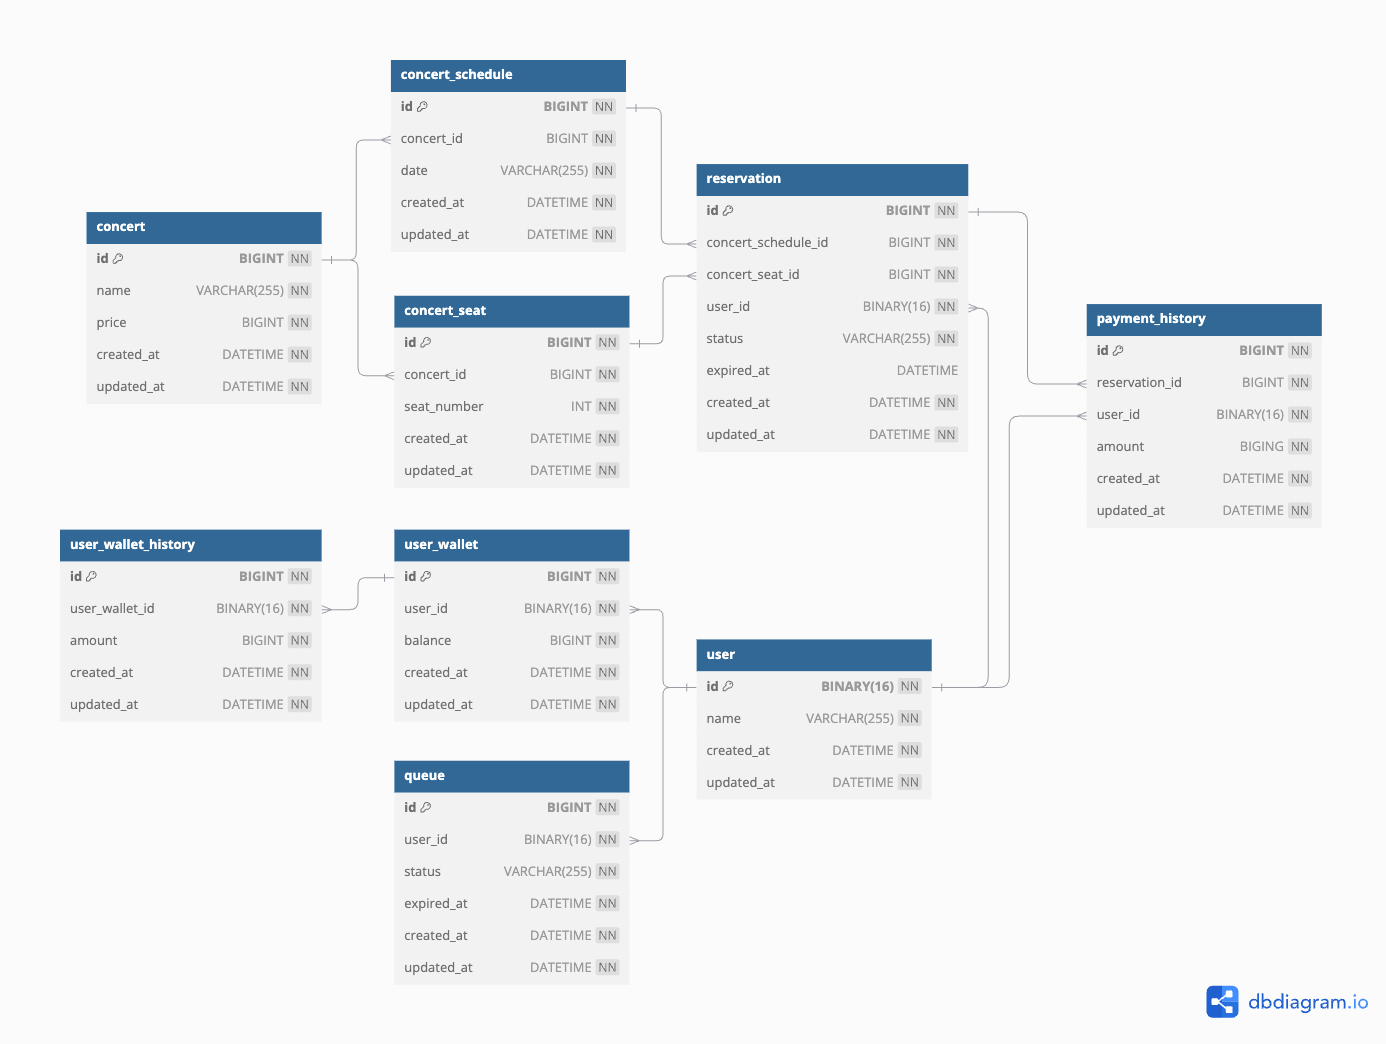
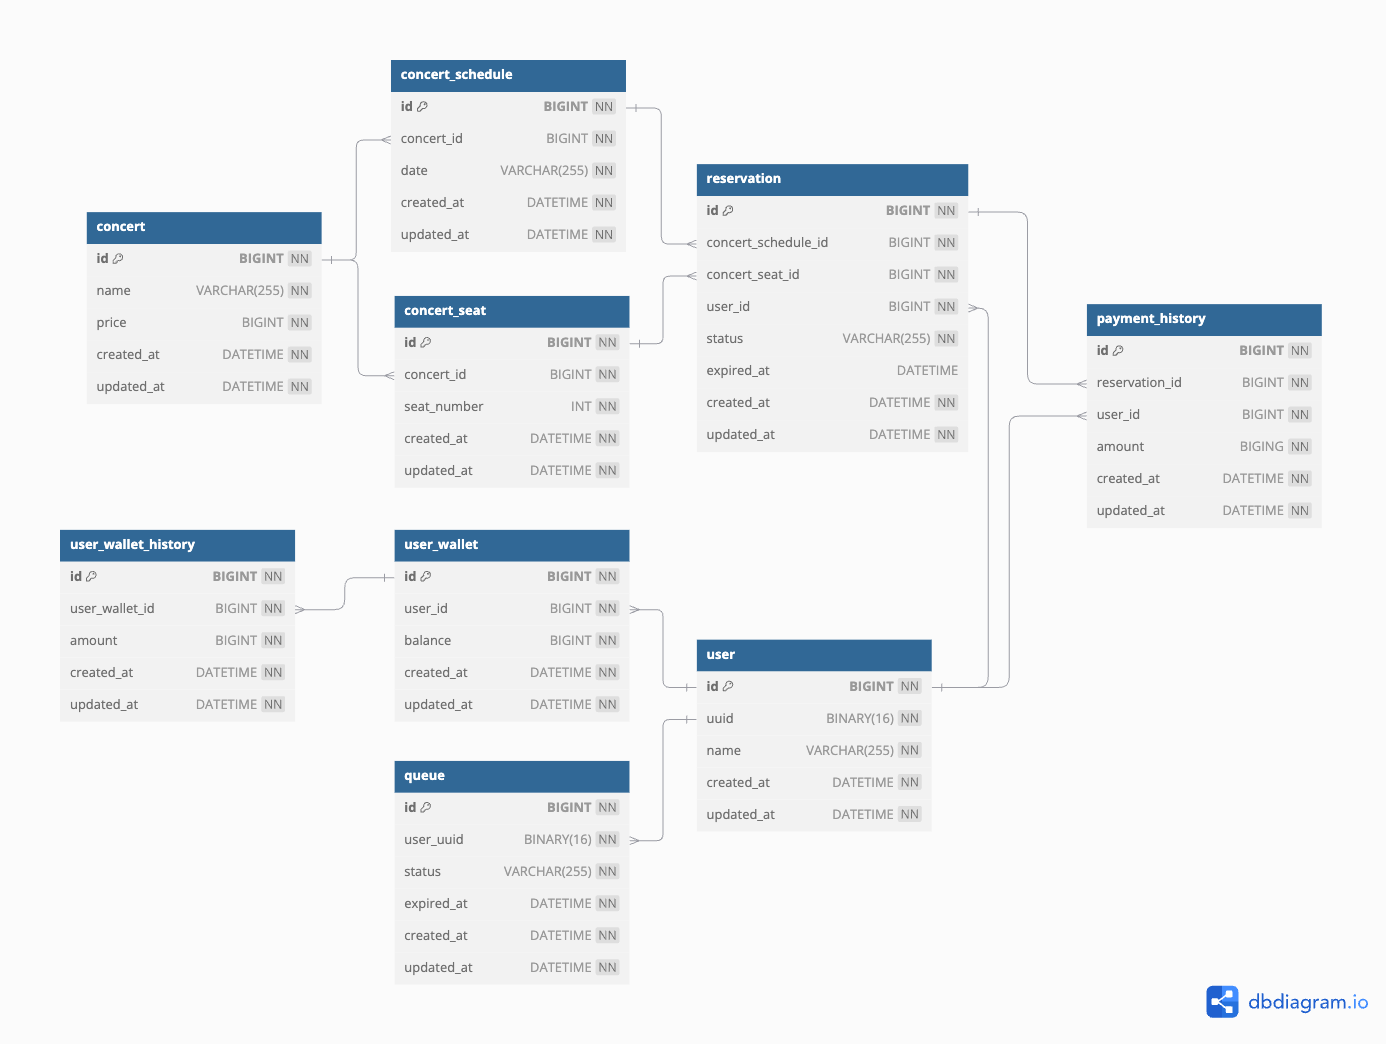
#5 ERD 수정 > UUID / PK 분리

diff --git a/docs/erd.md b/docs/erd.md
@@ -41,7 +41,7 @@ Table reservation as "예약" {
   id BIGINT [pk, not null] // 콘서트 예약 ID
   concert_schedule_id BIGINT [not null, ref: > concert_schedule.id] // 콘서트 일정 ID
   concert_seat_id BIGINT [not null, ref: > concert_seat.id] // 콘서트 좌석 ID
-  user_id BINARY(16) [not null, ref: > user.id] // 유저 ID
+  user_id BIGINT [not null, ref: > user.id] // 유저 ID
   status VARCHAR(255) [not null] // 예약 상태
   expired_at DATETIME [null] // 임시 배정 만료 시각
   created_at DATETIME [not null] // 생성 시각
@@ -49,15 +49,20 @@ Table reservation as "예약" {
 }
 
 Table user as "유저" {
-  id BINARY(16) [pk, not null] // 유저 ID
+  id BIGINT [pk, not null] // 유저 ID
+  uuid BINARY(16) [not null] // 유저 UUID
   name VARCHAR(255) [not null] // 유저 이름
   created_at DATETIME [not null] // 생성 시각
   updated_at DATETIME [not null] // 수정 시각
+
+  indexes {
+    (uuid) [unique] // UNIQUE 제약 조건
+  }
 }
 
 Table user_wallet as "유저 지갑" {
   id BIGINT [pk, not null] // 유저 지갑 ID
-  user_id BINARY(16) [not null, ref: > user.id] // 유저 ID
+  user_id BIGINT [not null, ref: > user.id] // 유저 ID
   balance BIGINT [not null] // 유저 잔액
   created_at DATETIME [not null] // 생성 시각
   updated_at DATETIME [not null] // 수정 시각
@@ -69,7 +74,7 @@ Table user_wallet as "유저 지갑" {
 
 Table user_wallet_history as "유저 지갑 이력" {
   id BIGINT [pk, not null] // 유저 지갑 이력 ID
-  user_wallet_id BINARY(16) [not null, ref: > user_wallet.id] // 유저 지갑 ID
+  user_wallet_id BIGINT [not null, ref: > user_wallet.id] // 유저 지갑 ID
   amount BIGINT [not null] // 증감액
   created_at DATETIME [not null] // 생성 시각
   updated_at DATETIME [not null] // 수정 시각
@@ -81,21 +86,21 @@ Table user_wallet_history as "유저 지갑 이력" {
 
 Table queue as "대기열" {
   id BIGINT [pk, not null] // 대기열 ID
-  user_id BINARY(16) [not null, ref: > user.id] // 유저 ID
+  user_uuid BINARY(16) [not null, ref: > user.uuid] // 유저 UUID
   status VARCHAR(255) [not null] // 대기 상태
   expired_at DATETIME [not null] // 만료 시각
   created_at DATETIME [not null] // 생성 시각
   updated_at DATETIME [not null] // 수정 시각
 
   indexes {
-    (user_id) [unique] // UNIQUE 제약 조건
+    (user_uuid) [unique] // UNIQUE 제약 조건
   }
 }
 
 Table payment_history as "결제 이력" {
   id BIGINT [pk, not null] // 결제 이력 ID
   reservation_id BIGINT [not null, ref: > reservation.id] // 예약 ID
-  user_id BINARY(16) [not null, ref: > user.id] // 유저 ID
+  user_id BIGINT [not null, ref: > user.id] // 유저 ID
   amount BIGING [not null] // 결제 금액
   created_at DATETIME [not null] // 생성 시각
   updated_at DATETIME [not null] // 수정 시각
